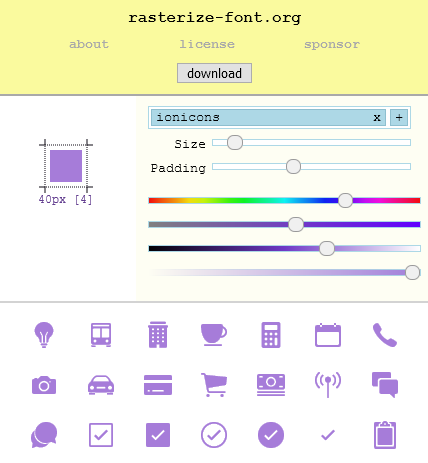
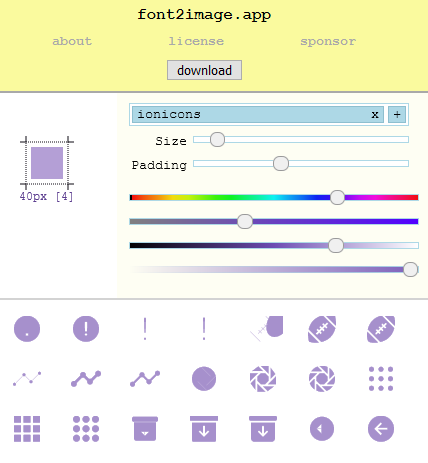
Update to Font2image.app

diff --git a/index.html b/index.html
@@ -10,11 +10,10 @@
 <html lang="en">
 
   <head>
-    <title>Rasterize Font</title>
+    <title>font2image.app</title>
 
     <meta charset="utf-8">
-	<meta name="title" content="Rasterize Font">
-	<meta name="author" content="pdulvp@laposte.net">
+	<meta name="title" content="font2image.app">
 	<meta name='viewport' content='width=device-width, initial-scale=1'/>
 	<meta name="keywords" content="font, png, convert, rasterize, icon, woff, ttf">
 	<meta name="description" content="Convert icon fonts to rasterized PNG images. Choose icons, color, padding and images are created.">
@@ -33,7 +32,7 @@
 
 	<div class="container-overlay">
 	<div class="header">
-		<div class="fixed"><a href="https://rasterize-font.org" title="Rasterize-Font.org" aria-label="Home">rasterize-font.org</a></div>
+		<div class="fixed"><a href="https://font2image.app" title="font2image.app" aria-label="Home">font2image.app</a></div>
 		<div class="spacing"></div>
 		<div class="buttons">
 			<div id="link-about" modal="modal-about" modal-icon="about" class="fixed link" aria-label="About">about</div>
@@ -98,7 +97,7 @@
 				<h2>Site</h2>
 				<p>Site non professionnel d'une personne physique</p>
 				<h2>Source code</h2>
-				<p><a href="https://github.com/pdulvp/rasterize-font">https://github.com/pdulvp/rasterize-font</a></p>
+				<p><a href="https://github.com/pdulvp/font2image.app">https://github.com/pdulvp/font2image.app</a></p>
 				
 				<h3>FAQ</h3>
 				<p><ul>

diff --git a/README.md b/README.md
@@ -1,8 +1,8 @@
-## Rasterize-font
+## font2image.app
 
 Convert icon fonts to rasterized PNG images. Choose icons, color, padding and images are created.
 
-![](images/rasterize.png)
+![](images/desktop.png)
 
 ### Image preview
 
